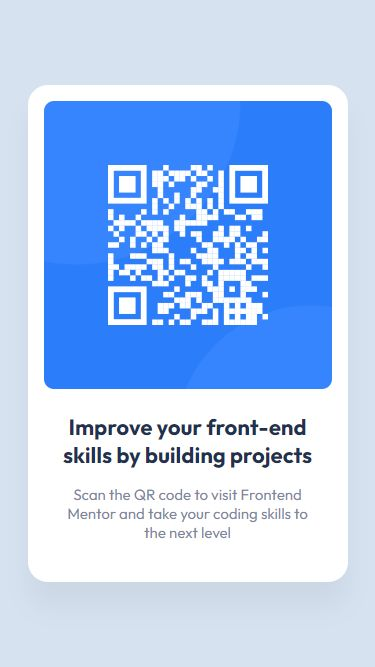
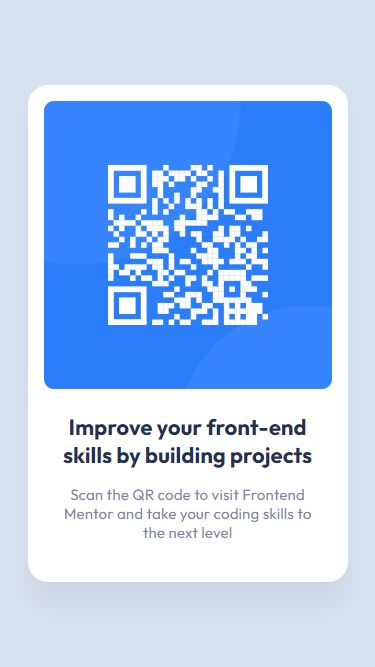
chore(challenge-1): update text styles
- update app screenshots

Changed region(s): [[0.176, 0.7196, 0.4987, 0.8096], [0.528, 0.7196, 0.8213, 0.8096]]

diff --git a/1_qr-code-component/assets/css/style.css b/1_qr-code-component/assets/css/style.css
@@ -51,8 +51,10 @@ body {
 
 .card__title {
   font-style: normal;
-  font-weight: 700;
+  font-weight: bold;
   font-size: 22px;
+  letter-spacing: 0px;
+
   text-align: center;
   color: var(--color-dark-blue);
   margin: 0;
@@ -60,8 +62,9 @@ body {
 
 .card__description {
   font-style: normal;
-  font-weight: 400;
+  font-weight: normal;
   font-size: 15px;
+  letter-spacing: 0.19px;
   text-align: center;
   margin: 16px 16px 0 16px;
   color: var(--color-grayish-blue);
